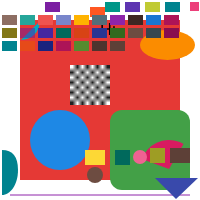
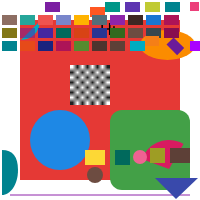
Add real byte coverage for the 6 top-level MATRIX_*/CLIP_RECT opcodes
MATRIX_SAVE(130), MATRIX_RESTORE(131), MATRIX_TRANSLATE(127),
MATRIX_SCALE(126), MATRIX_ROTATE(129), and the top-level CLIP_RECT(39)
are the document author's own raw transform/clip calls (writer.save()/
translate()/scale()/rotate()/clipRect()/restore()), distinct from the
scope-attached synthetic save/restore pairs OFFSET/VISIBILITY/
GRAPHICS_LAYER already emit internally. All six map directly onto
Opcode types the executor already implements from earlier phases
(MatrixSave/MatrixRestore/Translate/Scale/Rotate/ClipRect were built
for those modifiers), so this batch is pure parser-side wiring with no
executor changes.

Byte shapes reverse-engineered via javap on the real DrawBase2/
DrawBase3/DrawBase4-derived operation classes and confirmed by
generating real bytes and hex-decoding the tail:
  - MATRIX_SAVE / MATRIX_RESTORE: bare opcode byte, no payload.
  - MATRIX_TRANSLATE: [dx:f32][dy:f32].
  - MATRIX_SCALE: [scaleX:f32][scaleY:f32][pivotX:f32][pivotY:f32].
  - MATRIX_ROTATE: [degrees:f32][pivotX:f32][pivotY:f32].
  - CLIP_RECT: [left:f32][top:f32][right:f32][bottom:f32].

Verified on Desktop: opcode count went 61 -> 77, the parsed Opcode list
matches every expected value exactly (Translate(130,41), Scale(2,2,145,
46), Rotate(45,175,46), ClipRect(190,41,205,51)), the rotated test box
renders as a visible diamond, and pixel sampling confirms the clip:
(196,45) inside the clip rect is the drawn magenta (170,0,255), while
[…]

Changed region(s): [[0.81, 0.18, 1.0, 0.27], [0.63, 0.18, 0.81, 0.27]]

diff --git a/src/commonMain/kotlin/com/example/remotecompose/demo/SamplePayload.kt b/src/commonMain/kotlin/com/example/remotecompose/demo/SamplePayload.kt
@@ -43,55 +43,60 @@ import kotlin.io.encoding.ExperimentalEncodingApi
  * wrapped in a `startCustom`/`endCustom`, a `writer.image(...)` leaf component — not yet rendered
  * by this engine's `Image` opcode support, only byte-consumed — and three top-level document
  * metadata ops: `performHaptic(4)`, `setTheme(1)`, `setRootContentBehavior(1, 2, 3, 4)` — and a
- * brown rect wrapped in a `startBox`/`endBox` carrying an `animationSpec(3)` modifier), not by
- * anything in this codebase. Shared by every platform demo entry point (iOS, Android) so they
+ * brown rect wrapped in a `startBox`/`endBox` carrying an `animationSpec(3)` modifier, a cyan rect
+ * drawn after a raw `writer.save()`/`writer.translate(130f, 41f)`/`writer.restore()` (no modifier
+ * involved — the document author's own top-level matrix ops), an amber rect drawn after a raw
+ * `writer.save()`/`writer.scale(2f, 2f, 145f, 46f)`/`writer.restore()`, a purple rect drawn after a
+ * raw `writer.save()`/`writer.rotate(45f, 175f, 46f)`/`writer.restore()`, and a magenta rect drawn
+ * oversized then clipped by a raw `writer.save()`/`writer.clipRect(190f, 41f, 205f, 51f)`/
+ * `writer.restore()`), not by anything in this codebase. Shared by every platform demo entry point
+ * (iOS, Android) so they
  * render byte-identical input — the point of the cross-platform comparison is to catch *rendering*
  * differences, not to accidentally compare two different payloads.
  */
 @OptIn(ExperimentalEncodingApi::class)
 val SAMPLE_RC_BYTES: ByteArray by lazy {
     Base64.decode(
[41 lines of base64/hex data omitted]
-            "AAAByf///7EoAAAAAgAAAAT/XUA3KkLcAABCJAAAQvoAAEJMAADW1g=="
[41 lines of base64/hex data omitted]
     )
 }

diff --git a/src/commonMain/kotlin/com/example/remotecompose/parser/RealRemoteComposeParser.kt b/src/commonMain/kotlin/com/example/remotecompose/parser/RealRemoteComposeParser.kt
@@ -510,6 +510,38 @@ object RealRemoteComposeParser {
     private const val OP_VALUE_FLOAT_EXPRESSION_CHANGE = 227
 
     /**
+     * `Operations.MATRIX_SAVE` / `MATRIX_RESTORE` — bare opcode bytes, no payload (confirmed via
+     * `writer.save()`/`writer.restore()` decoding to a single byte each, `82`/`83` hex). Unlike
+     * [OP_MODIFIER_OFFSET]'s scope-attached synthetic save/restore pair, these are top-level draw
+     * ops the document author placed directly in the stream, so they map straight onto the
+     * existing [Opcode.MatrixSave]/[Opcode.MatrixRestore] with no scope-stack bookkeeping needed.
+     */
+    private const val OP_MATRIX_SAVE = 130
+    private const val OP_MATRIX_RESTORE = 131
+
+    /** `Operations.MATRIX_TRANSLATE` — `[dx:f32][dy:f32]`, confirmed via `writer.translate(130f,41f)`. */
+    private const val OP_MATRIX_TRANSLATE = 127
+
+    /**
+     * `Operations.MATRIX_SCALE` — `[scaleX:f32][scaleY:f32][pivotX:f32][pivotY:f32]`, confirmed
+     * via `writer.scale(2f,2f,145f,46f)` decoding to exactly those four floats in that order.
+     */
+    private const val OP_MATRIX_SCALE = 126
+
+    /**
+     * `Operations.MATRIX_ROTATE` — `[degrees:f32][pivotX:f32][pivotY:f32]`, confirmed via
+     * `writer.rotate(45f,175f,46f)` decoding to exactly those three floats in that order.
+     */
+    private const val OP_MATRIX_ROTATE = 129
+
+    /**
+     * `Operations.CLIP_RECT` — the top-level draw-context clip (distinct from
+     * [OP_MODIFIER_CLIP_RECT]'s modifier-attached one): `[left:f32][top:f32][right:f32][bottom:f32]`,
+     * confirmed via `writer.clipRect(190f,41f,205f,51f)` decoding to exactly those four floats.
+     */
+    private const val OP_CLIP_RECT = 39
+
+    /**
      * `drawTextAnchored` carries no font-size parameter — real font sizing comes from a text style
      * this minimal parser doesn't yet decode — so text is drawn at a fixed, reasonable default.
      */
@@ -941,6 +973,39 @@ object RealRemoteComposeParser {
                     reader.readS32() // value (expression/id reference)
                 }
 
+                OP_MATRIX_SAVE -> opcodes += Opcode.MatrixSave
+
+                OP_MATRIX_RESTORE -> opcodes += Opcode.MatrixRestore
+
+                OP_MATRIX_TRANSLATE -> {
+                    val dx = reader.readFloat32()
+                    val dy = reader.readFloat32()
+                    opcodes += Opcode.Translate(dx, dy)
+                }
+
+                OP_MATRIX_SCALE -> {
+                    val sx = reader.readFloat32()
+                    val sy = reader.readFloat32()
+                    val pivotX = reader.readFloat32()
+                    val pivotY = reader.readFloat32()
+                    opcodes += Opcode.Scale(sx, sy, pivotX, pivotY)
+                }
+
+                OP_MATRIX_ROTATE -> {
+                    val degrees = reader.readFloat32()
+                    val pivotX = reader.readFloat32()
+                    val pivotY = reader.readFloat32()
+                    opcodes += Opcode.Rotate(degrees, pivotX, pivotY)
+                }
+
+                OP_CLIP_RECT -> {
+                    val left = reader.readFloat32()
+                    val top = reader.readFloat32()
+                    val right = reader.readFloat32()
+                    val bottom = reader.readFloat32()
+                    opcodes += Opcode.ClipRect(left, top, right, bottom)
+                }
+
                 else -> throw RemoteComposeParseException(
                     "Real opcode $opId is outside the minimal subset this demo parser supports " +
                         "(Header/DataText/RootContentDescription/PaintBundle/DrawRect/DrawCircle/" +
@@ -957,7 +1022,8 @@ object RealRemoteComposeParser {
[1 lines of base64/hex data omitted]
                         "ModifierDrawContent/ModifierMarquee/ModifierGraphicsLayer/" +
[1 lines of base64/hex data omitted]
-                        "ValueFloatChange/ValueIntegerExpressionChange/ValueFloatExpressionChange)",
[1 lines of base64/hex data omitted]
+                        "MatrixSave/MatrixRestore/MatrixTranslate/MatrixScale/MatrixRotate/ClipRect)",
                 )
             }
         }

diff --git a/tools/rc-writer/src/main/kotlin/Main.kt b/tools/rc-writer/src/main/kotlin/Main.kt
@@ -380,6 +380,30 @@ fun main() {
     writer.drawRect(110f, 41f, 125f, 51f)
     writer.endBox()
 
+    writer.save()
+    writer.translate(130f, 41f)
+    writer.getRcPaint().setColor(0xFF00ACC1.toInt()).commit()
+    writer.drawRect(0f, 0f, 15f, 10f)
+    writer.restore()
+
+    writer.save()
+    writer.scale(2f, 2f, 145f, 46f)
+    writer.getRcPaint().setColor(0xFFF57F17.toInt()).commit()
+    writer.drawRect(145f, 41f, 152f, 46f)
+    writer.restore()
+
+    writer.save()
+    writer.rotate(45f, 175f, 46f)
+    writer.getRcPaint().setColor(0xFF6A1B9A.toInt()).commit()
+    writer.drawRect(168f, 41f, 183f, 51f)
+    writer.restore()
+
+    writer.save()
+    writer.clipRect(190f, 41f, 205f, 51f)
+    writer.getRcPaint().setColor(0xFFAA00FF.toInt()).commit()
+    writer.drawRect(185f, 36f, 210f, 56f)
+    writer.restore()
+
     val bytes = writer.encodeToByteArray()
     File("sample.rc").writeBytes(bytes)
     println("wrote ${bytes.size} bytes to sample.rc")
